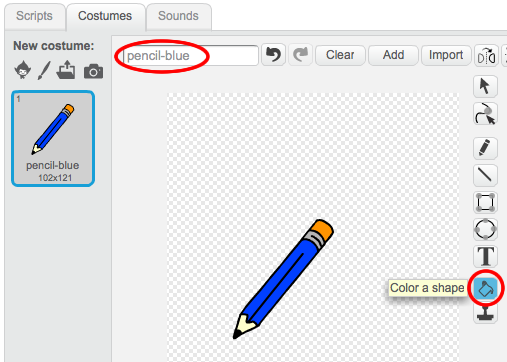
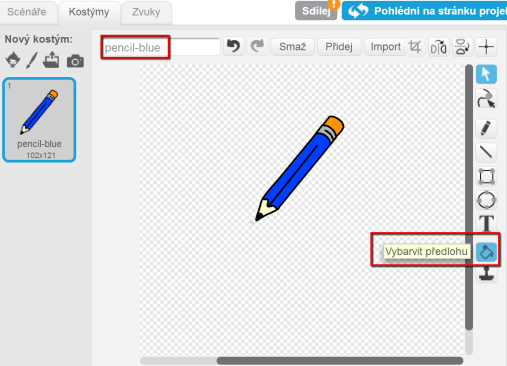
paintbox

diff --git a/cs-CZ/Term 1/Paint Box/Paint Box.md b/cs-CZ/Term 1/Paint Box/Paint Box.md
@@ -36,12 +36,12 @@ Začnema vytvořením tužky, kterou můžeš kreslit na scénu.
 
 	![screenshot](paint-pencil-blue.png) 
 
-+ Protože budeš používat myš na kreslení, chceš aby tužka následovala myš navždy = `forever` {.blockcontrol}. Přidej tento kód k tužce:
++ Protože budeš používat myš na kreslení, chceš aby tužka následovala myš navždy = `opakuj dokola` {.blockcontrol}. Přidej tento kód k tužce:
 
 	```blocks
-		when flag clicked
-		forever
-		  go to [mouse pointer v]
+		po kliknutí na ⚑
+		opakuj dokola
+		  go to [ukazatel myši v]
 		end
 	```
 
@@ -51,7 +51,7 @@ Začnema vytvořením tužky, kterou můžeš kreslit na scénu.
 
 	![screenshot](paint-center.png)
 
-	Abys to spravil(a), klikni na kostým 'pencil-blue' ve sprajtu tužky a klikni na 'Set costume center'.
+	Abys to spravil(a), klikni na kostým 'pencil-blue' ve sprajtu tužky a klikni na 'Nastav střed kostýmu'.
 
 	![screenshot](paint-center-icon.png)
 
@@ -61,9 +61,19 @@ Začnema vytvořením tužky, kterou můžeš kreslit na scénu.
 
 + Klikni na záložku 'Scripts' a otestuj tužku znovu - funguje lépe než předtím?
 
-+ Jako další, nech tužku kreslit jestliže - `if` {.blockcontrol} - je stisknuto tlačítko myši:
++ Jako další, nech tužku kreslit `jestliže` {.blockcontrol} - je stisknuto tlačítko myši:
 
-	![screenshot](paint-pencil-draw-code.png)	
+    ```blocks
+		po kliknutí na ⚑
+		opakuj dokola
+		  go to [ukazatel myši v]
+          když (myš stiskunta) pak
+            pero dolů
+          jinak 
+            pero nahoru
+          end
+		end
+	```
 
 + Vyzkoušej program znovu. Tentokrát pohybuj tužkou po scéně a drž stisknuté tlačítko myši. Můžeš takto kreslit tužkou?
 
@@ -131,7 +141,7 @@ Udělej různé barevné tužky a umožni jejich používání a možnost si je 
 		set pen color to [#0000ff]
 	```
 
-+ Nakonec potřebuješ říct tužce, jaký si má vybrat kostým a barvu tuhy při startu projektu (a smazat scénu). Přidej tento kód na začátek kódu pro tužku za `when flag clicked` {.blockevents} (před smyčku `forever` {.blockcontrol}):
++ Nakonec potřebuješ říct tužce, jaký si má vybrat kostým a barvu tuhy při startu projektu (a smazat scénu). Přidej tento kód na začátek kódu pro tužku za `po kliknutí na ⚑` {.blockevents} (před smyčku `forever` {.blockcontrol}):
 
 	```blocks
 		clear
